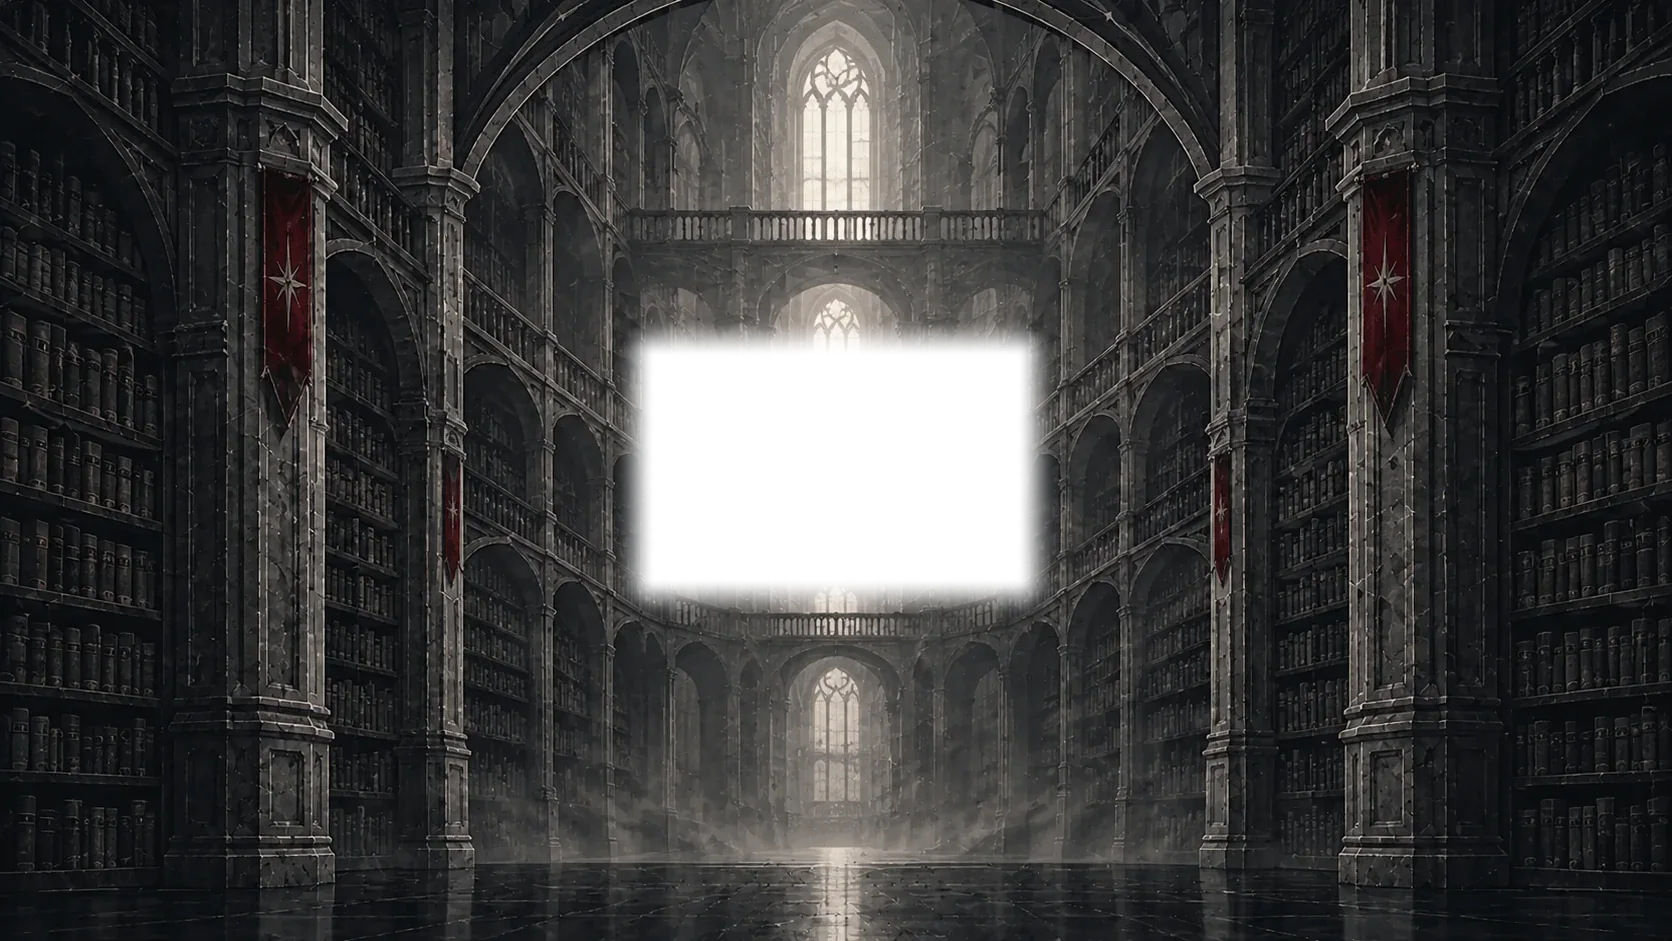
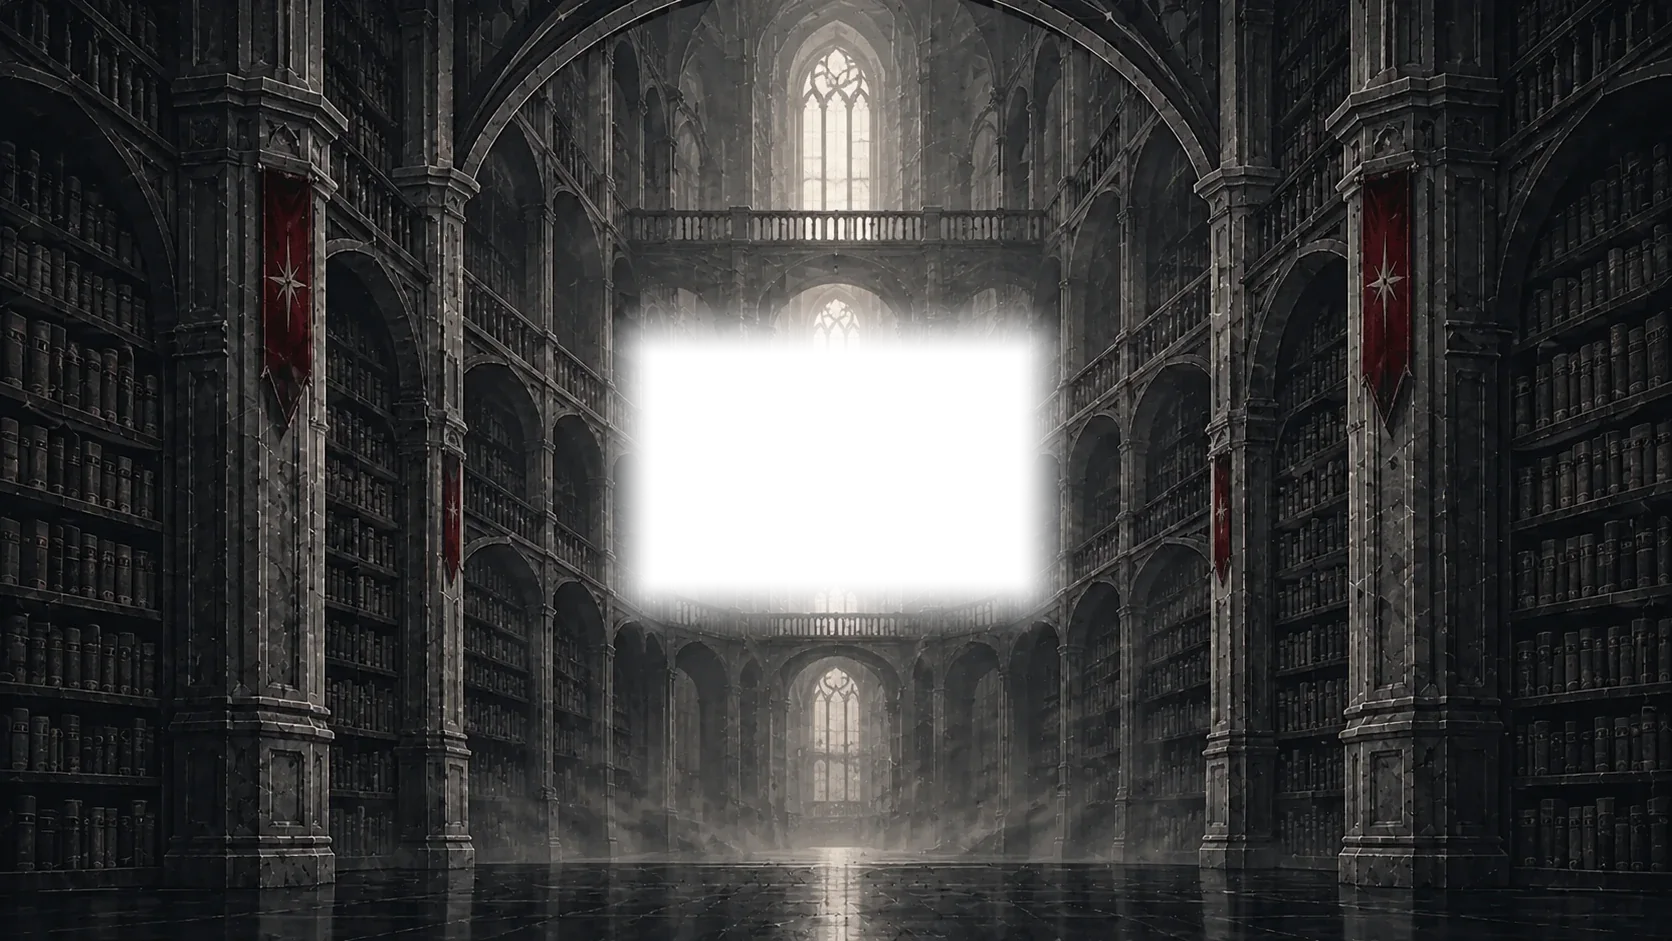
docs: blend the 3D layers with wide soft windows so no picture-in-picture shows

Changed region(s): [[0.3421, 0.3082, 0.6531, 0.678]]

diff --git a/docs/index.html b/docs/index.html
@@ -346,6 +346,7 @@
       { src: 'layers/1.webp' },
     ];
     const IMG_ASPECT = 1672 / 941;
+    const FEATHER = 0.3; // soft edge of each window, as a fraction of its height
     const END_SCALE = 1.3; // how large the far end of the aisle gets at the end of the scroll
 
     async function buildWorld(THREE, canvas) {
@@ -368,7 +369,7 @@
       // Each layer must cover the window of the one in front of it.
       const base = [1];
       for (let k = 0; k < LAYERS.length - 1; k++) {
-        base.push(base[k] * Math.max(LAYERS[k].hw, LAYERS[k].hh) * 1.4);
+        base.push(base[k] * Math.max(LAYERS[k].hw, LAYERS[k].hh) * (1 + 2 * FEATHER));
       }
       const zoomEnd = END_SCALE / base[base.length - 1];
       const quad = new THREE.PlaneGeometry(1, 1);
@@ -411,8 +412,10 @@
         for (let k = 0; k < LAYERS.length; k++) {
           const s = base[k] * zoom;
           const L = LAYERS[k];
-          // Skip a layer once its window is larger than the screen.
-          const gone = L.hw && (L.hw * w0 * s / 2 > aspect * 1.2) && (L.hh * h0 * s / 2 > 1.2);
+          // Skip a layer once its window, soft edge included, is larger than the screen.
+          const gone = L.hw
+            && ((L.hw / 2 + FEATHER * L.hh / IMG_ASPECT) * w0 * s > aspect * 1.05)
+            && ((L.hh / 2 + FEATHER * L.hh) * h0 * s > 1.05);
           const mesh = meshes[k];
           mesh.visible = !gone;
           mesh.scale.set(w0 * s, h0 * s, 1);
